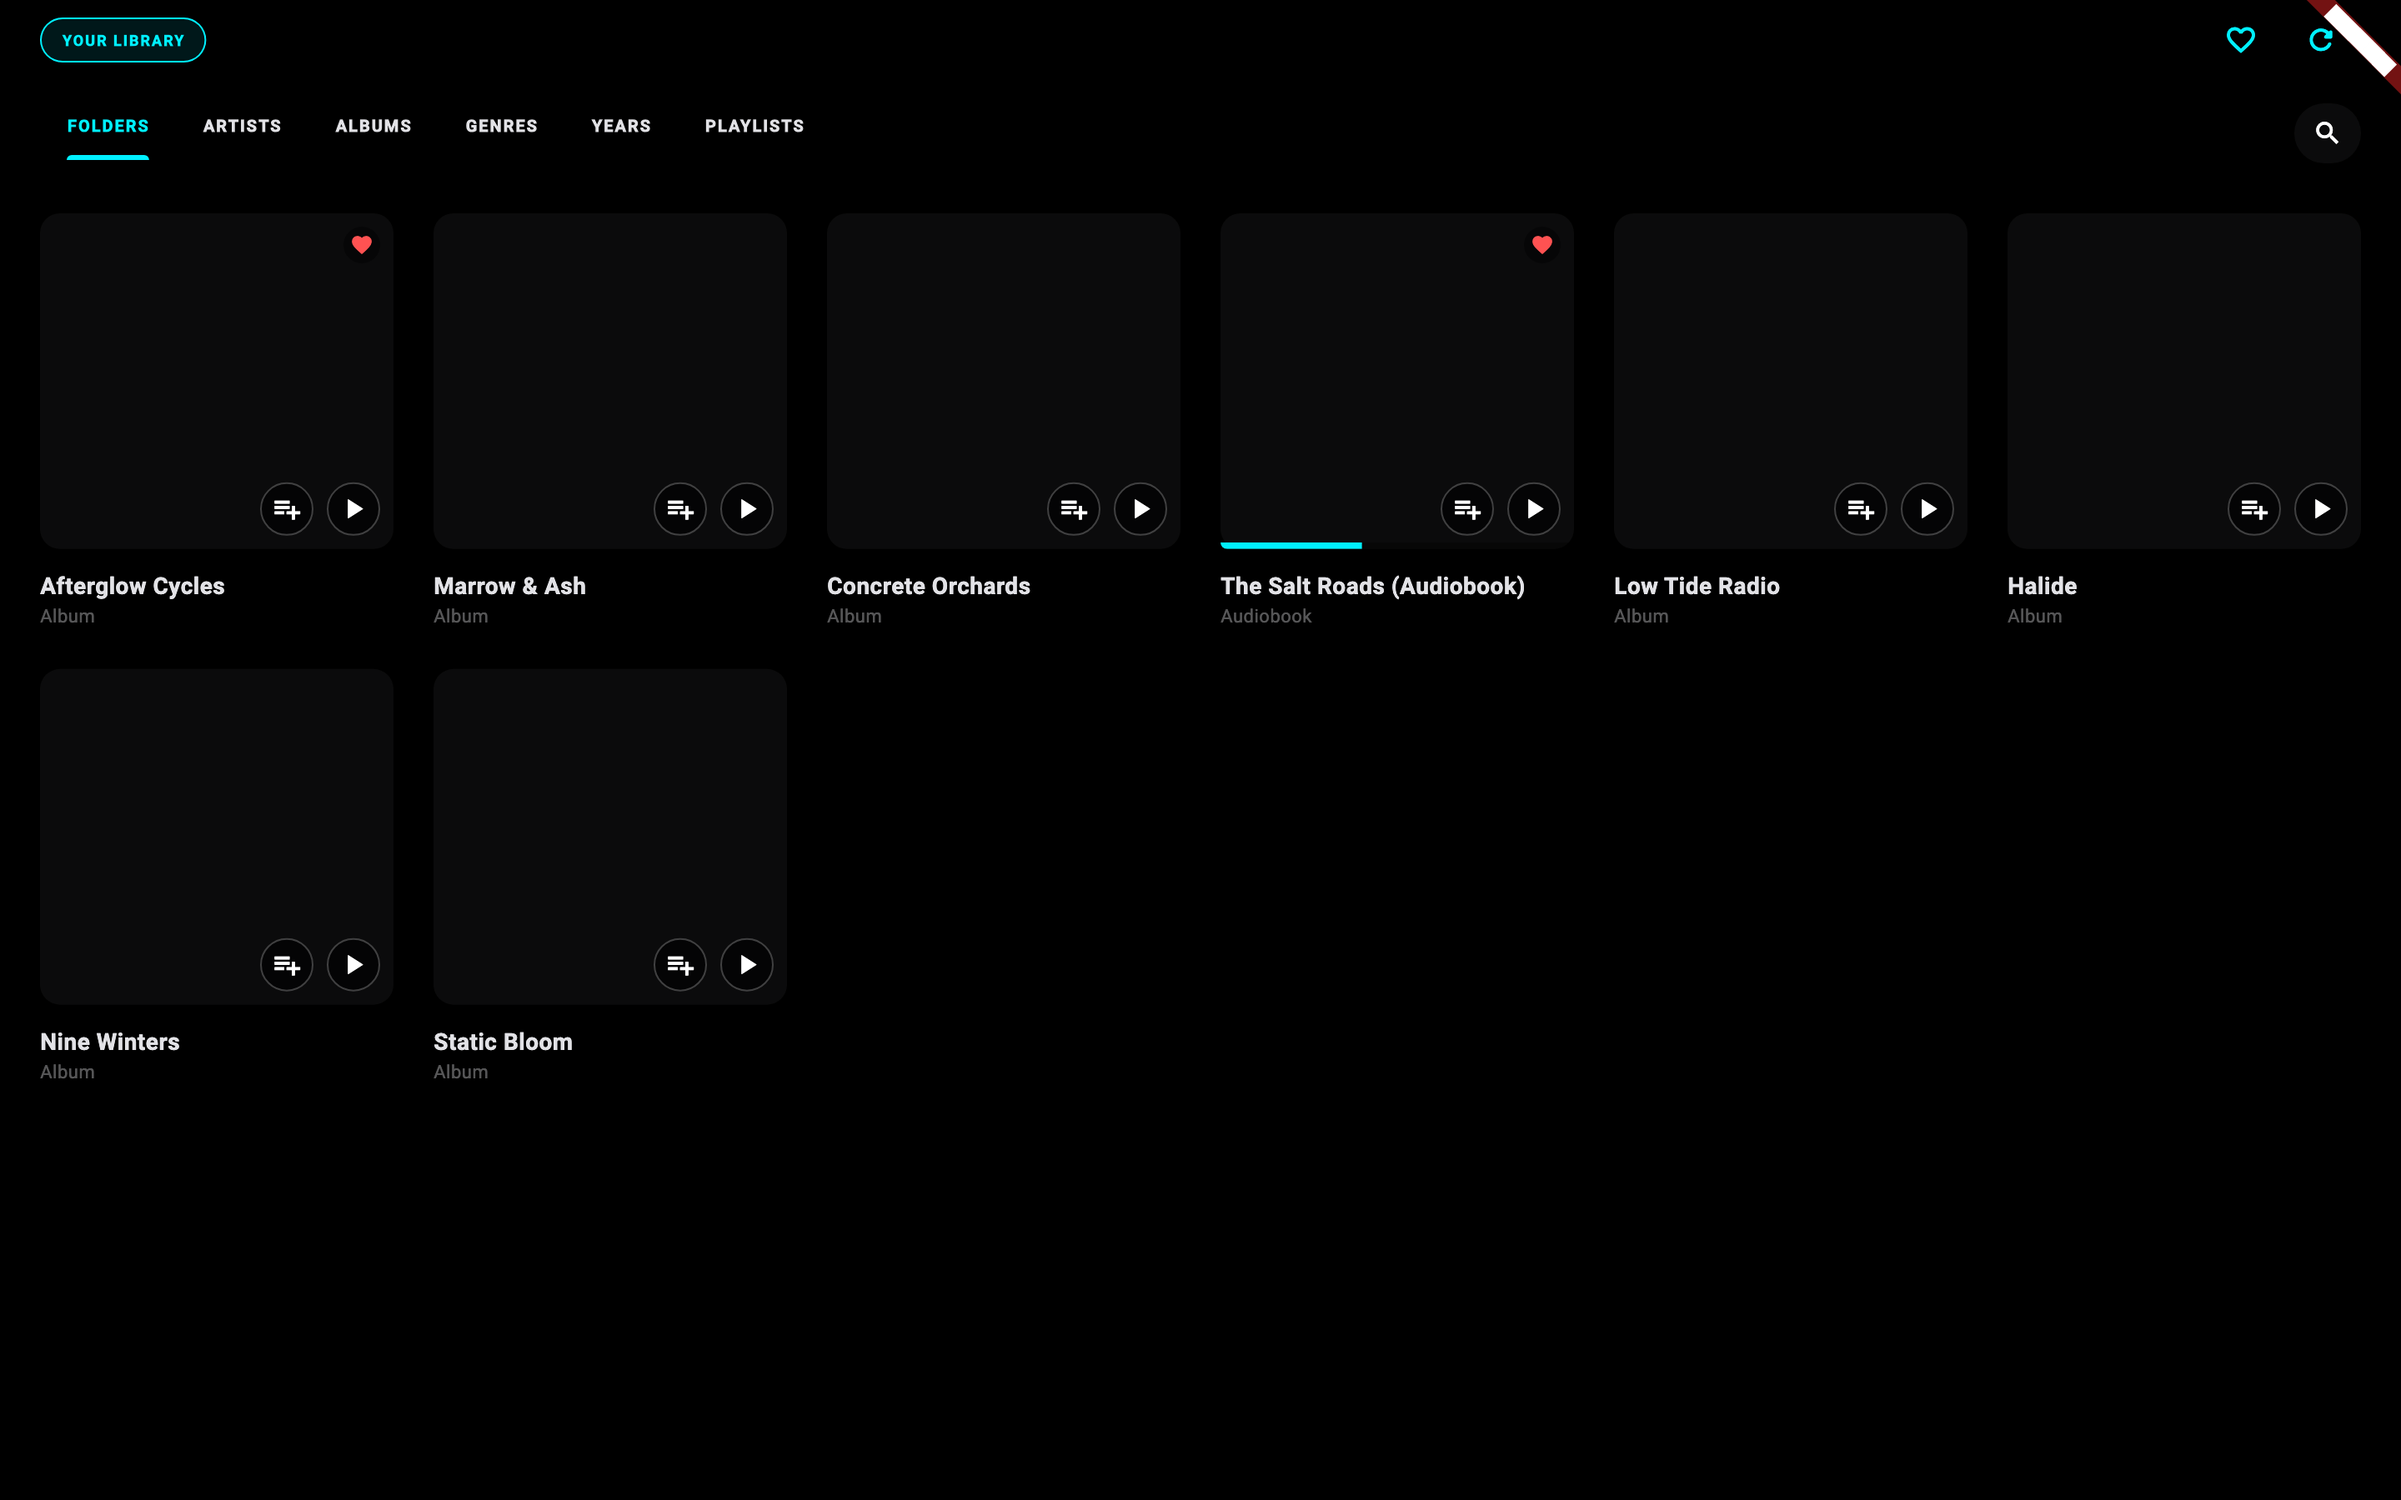
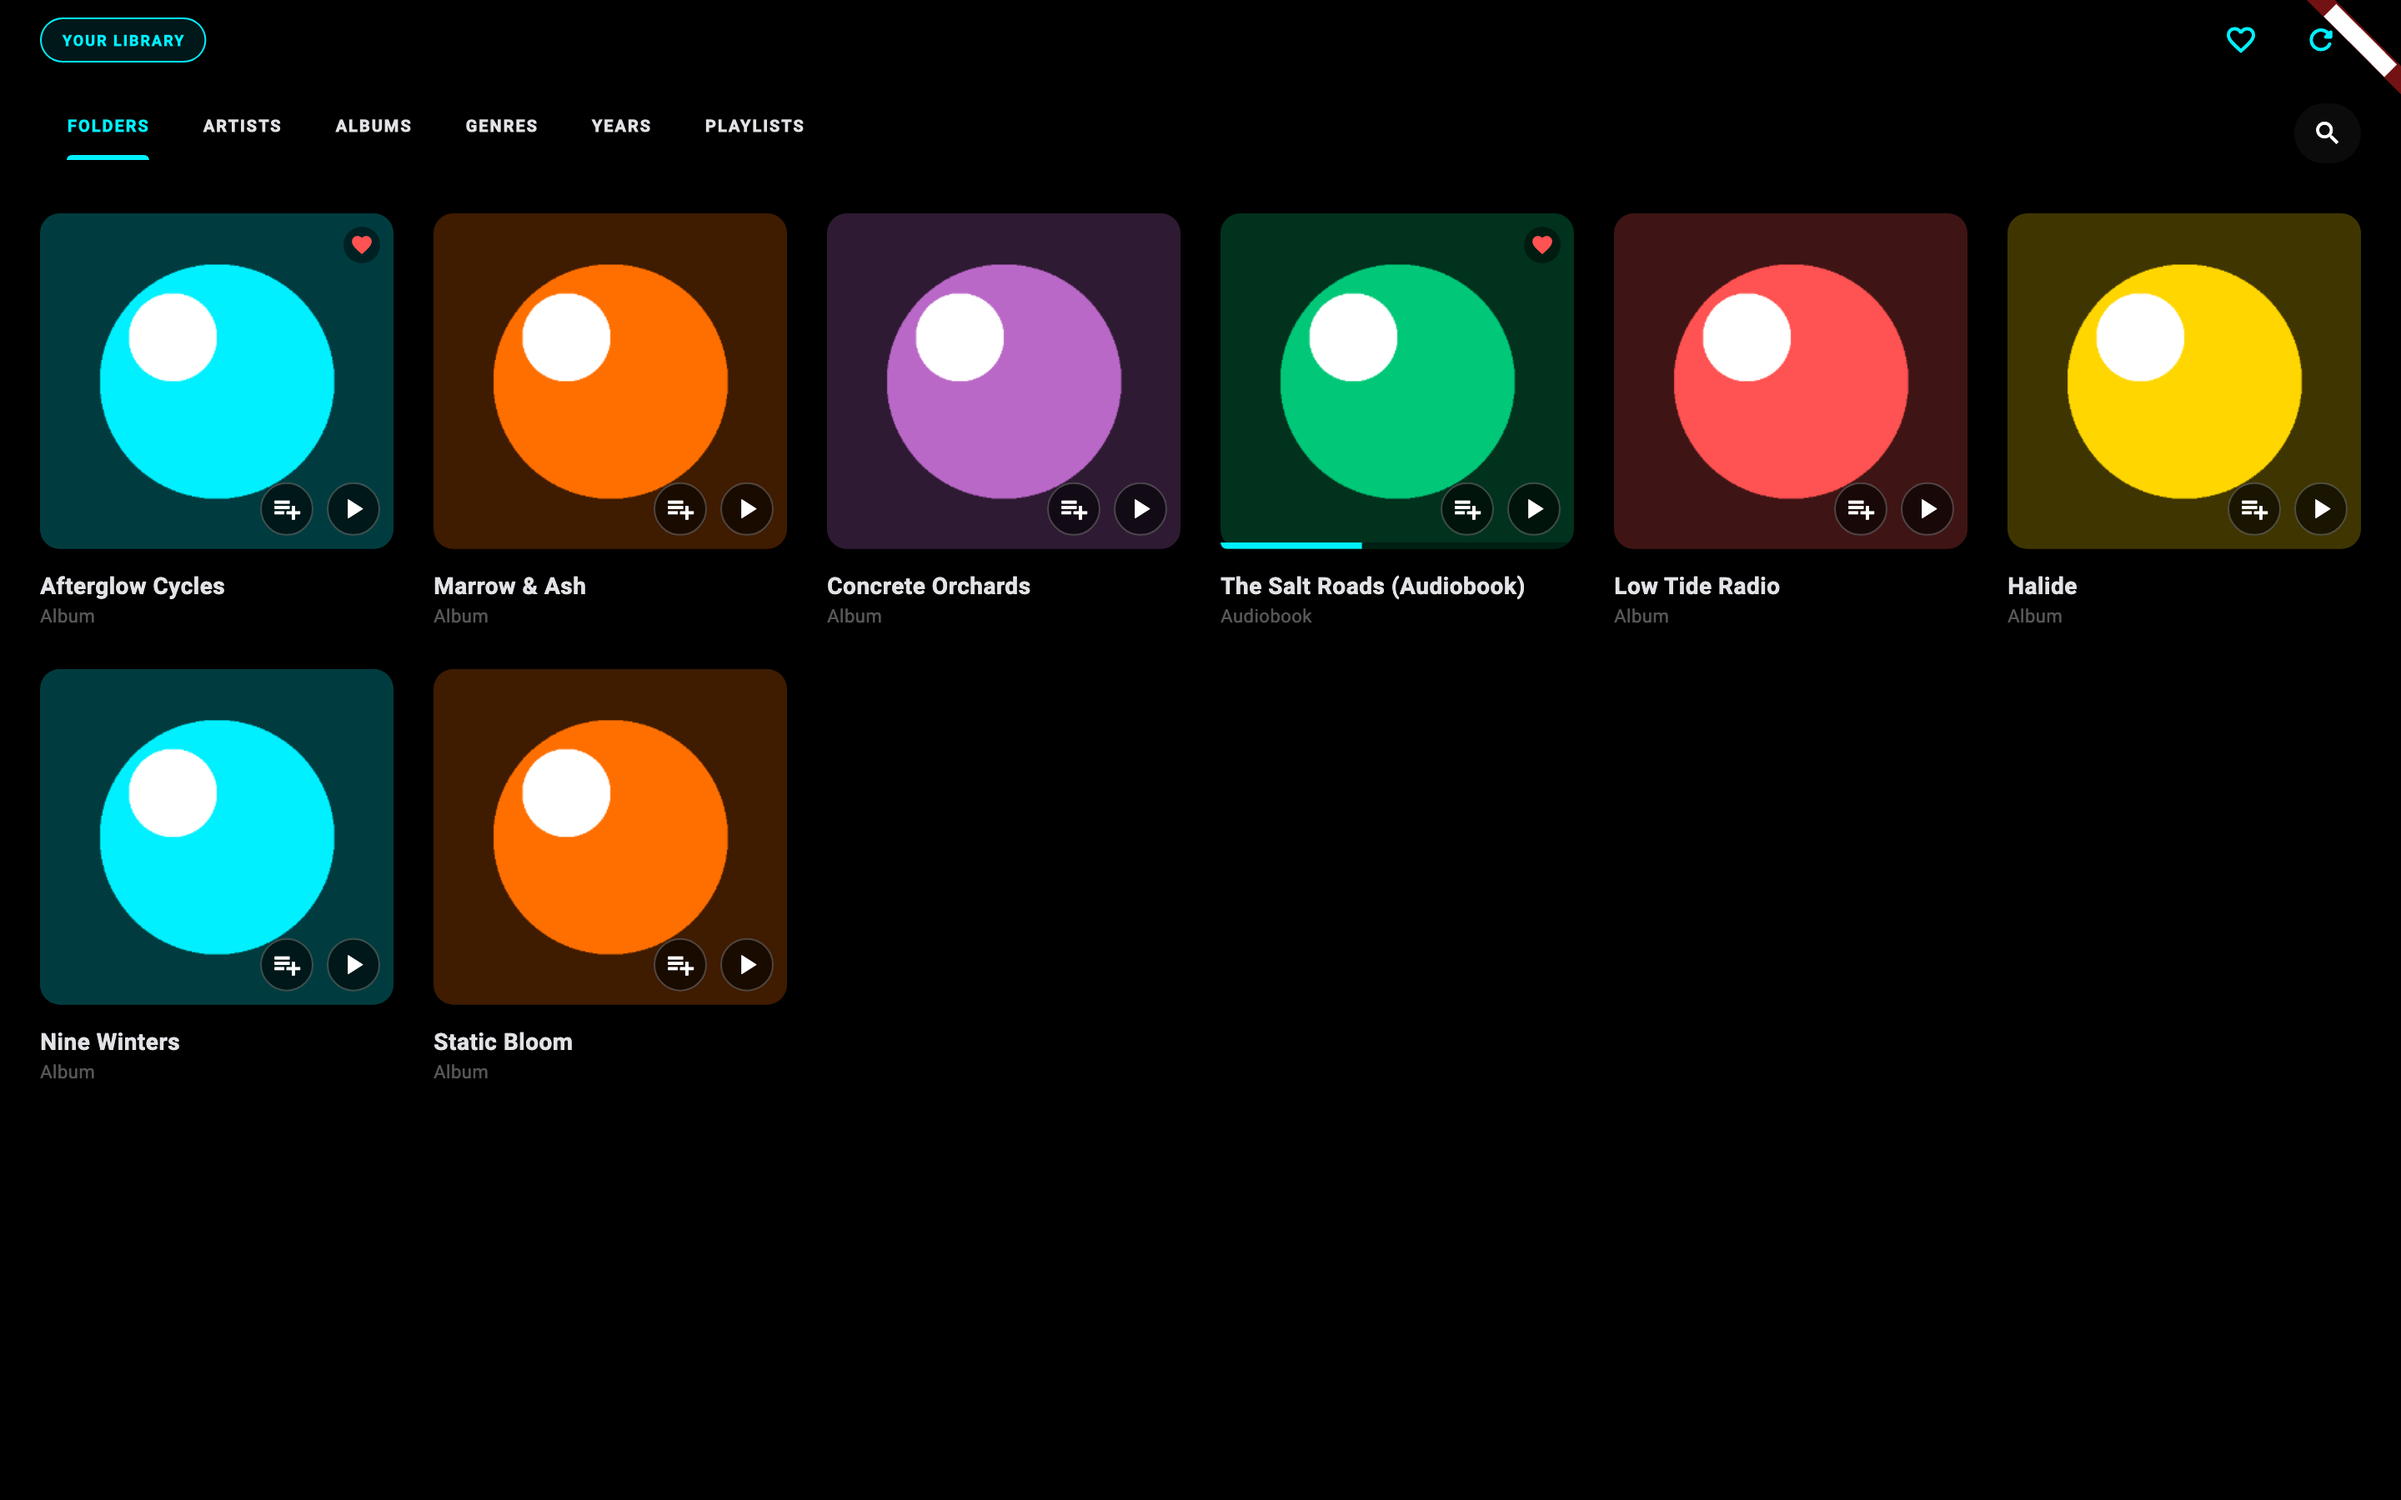
Let images decode before capture
Image.memory/Image.file decode on a real event loop; inside
flutter_test's fake-async clock those callbacks never fire, so album
artwork rendered as empty boxes despite syntheticCoverArt supplying the
bytes. A real async turn plus a few pumps lets the decoded frames land.

Changed region(s): [[0.0, 0.1244, 1.0, 0.3733], [0.0, 0.4356, 0.3438, 0.6844]]

diff --git a/test/screenshots/screenshot_harness.dart b/test/screenshots/screenshot_harness.dart
@@ -173,6 +173,17 @@ Future<File> captureWidget(
     await tester.pump(const Duration(milliseconds: 100));
   }
 
+  // Image.memory / Image.file decode on a real event loop. Inside
+  // flutter_test's fake-async clock those callbacks never fire, so artwork
+  // renders as empty boxes. Give the engine a real turn, then pump the decoded
+  // frames in.
+  await tester.runAsync(
+    () => Future<void>.delayed(const Duration(milliseconds: 300)),
+  );
+  for (var i = 0; i < 5; i++) {
+    await tester.pump(const Duration(milliseconds: 50));
+  }
+
   final boundary =
       boundaryKey.currentContext!.findRenderObject()! as RenderRepaintBoundary;
 
